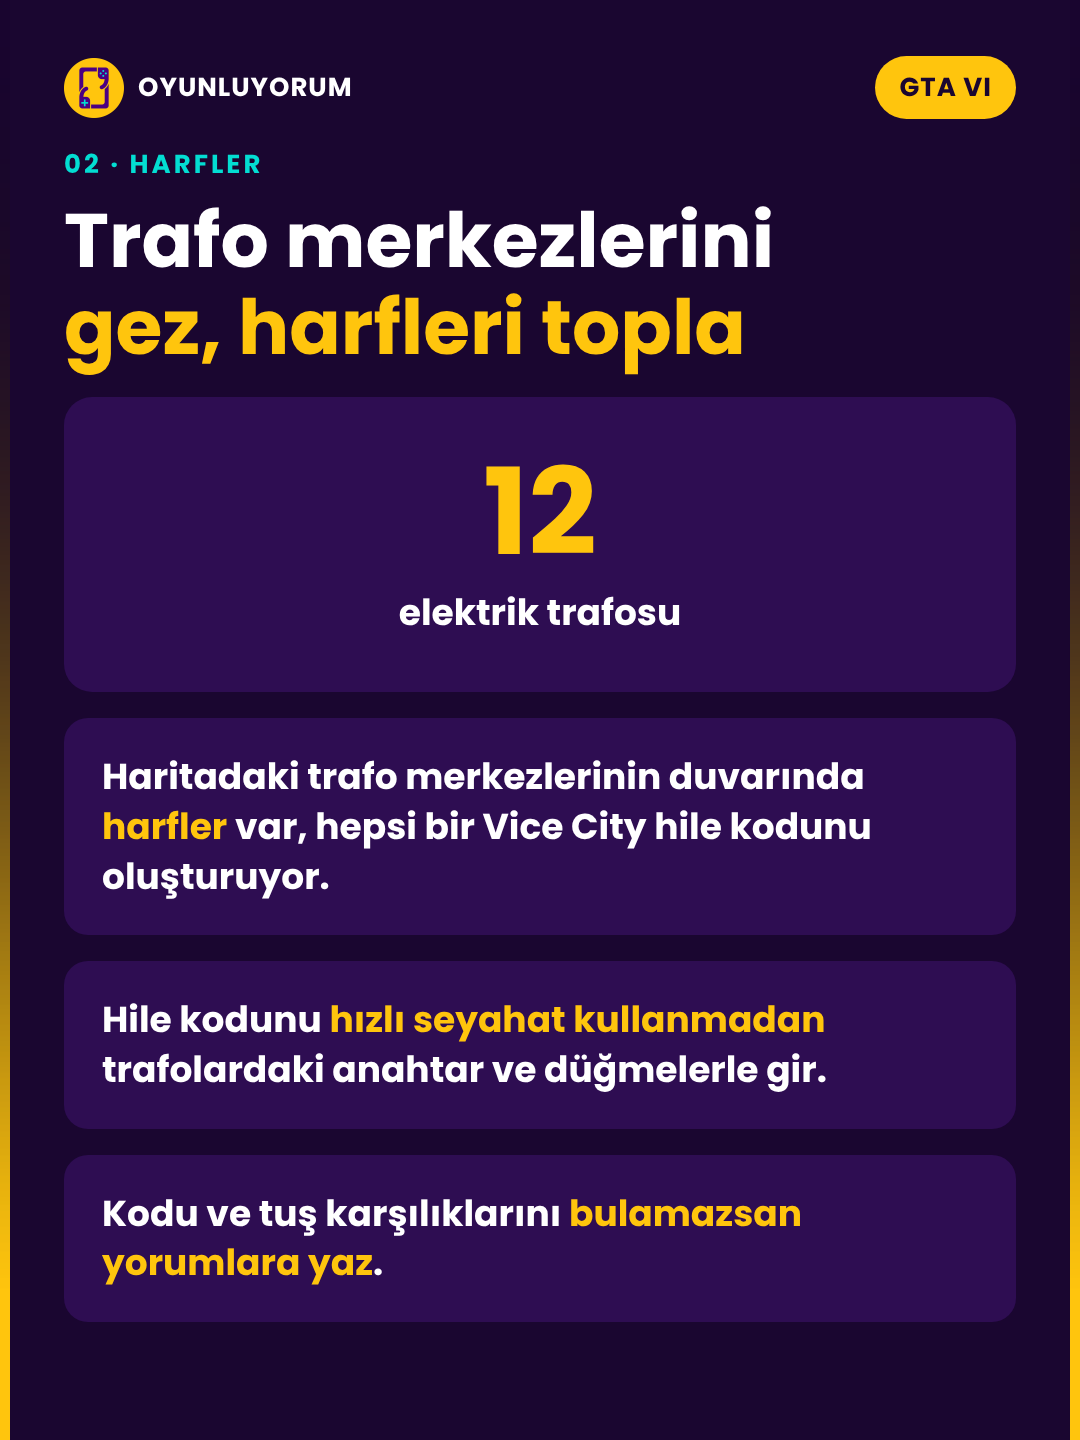
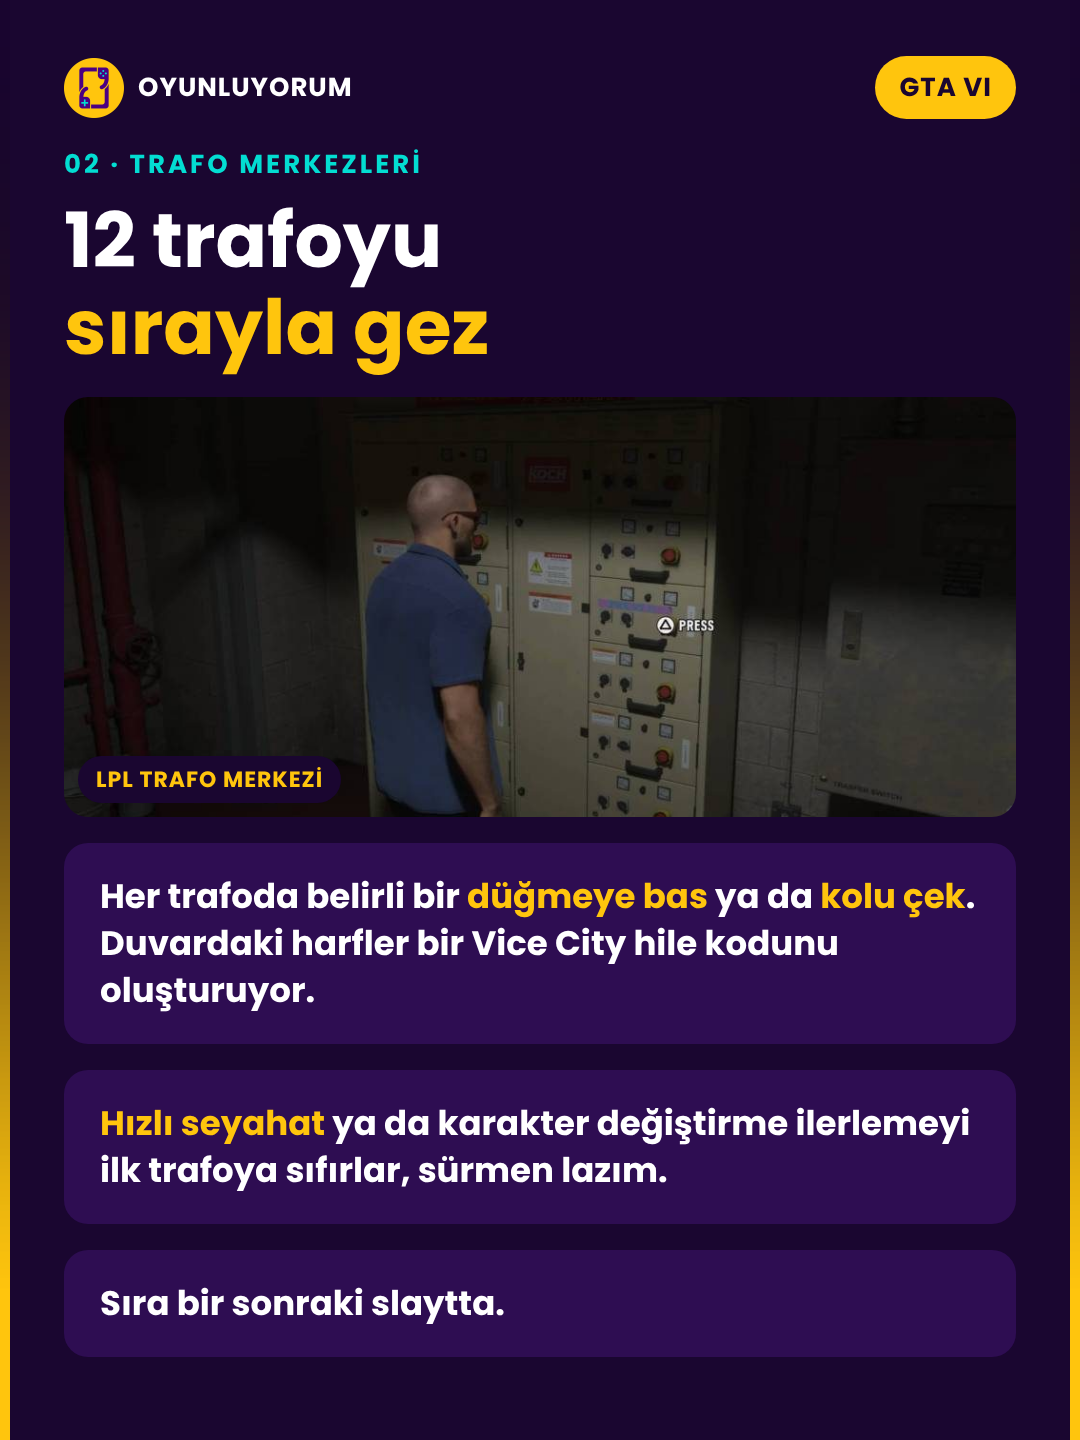
Vice City portal karuseli: 7 slayt, trafo sırası, portal görselleri
Claude-Session: https://claude.ai/code/session_01Cfy9VgEXWVL5ta7MT2PpLs

diff --git a/posts/2026-11-24-gta6-vice-city-portal/aciklama.md b/posts/2026-11-24-gta6-vice-city-portal/aciklama.md
@@ -1,11 +1,13 @@
 # GTA 6 gizli Vice City portalı (Tommy Vercetti gömleği + motosiklet)
 
 GTA 6'da 2002'ye zaman yolculuğu yapabiliyorsun ⏳🌴
-Key Lento'daki radyo kulesinden başlayıp trafo merkezlerindeki harfleri takip ediyorsun. Sonunda pembe bir portal seni PS2 görünümlü Vice City'ye götürüyor. Ödül: Tommy Vercetti'nin gömleği ve motosikleti. Kodları bulamazsan yorumlara yaz 👇
+Key Lento'daki radyo kulesinden başlayıp 12 elektrik trafosunu doğru sırayla gezmen gerekiyor. Sonunda pembe bir portal seni PS2 görünümlü Vice City'ye götürüyor. Ödül: Tommy Vercetti'nin gömleği, motosikleti, pantolonu ve ayakkabısı. Trafo sırası karuselde 👇
 Bu sırrı beraber çözeceğin arkadaşına gönder.
 
 #gta6 #gtavi #gta6türkiye #rockstargames #vicecity #oyun #oyunluyorum
 
-Yorum için not (CANOLAR yalnızca yorumda): hile kodunun harfleri ve tuş karşılıkları GameSpot rehberinde var, istenirse yoruma yazılacak.
-Kaynaklar: GameSpot, Kotaku, VGC (IndiaTimes erişilemedi)
+Notlar:
+- Trafo sırası (slayt 4) Dot Esports listesine göre. ComicBook'ta 5. ve 8. trafonun konum adları farklı yazılmış (tuş sırası aynı: D, D, ., A, ., A, A, A, ., W, D, W).
+- Video eklenecek (kullanıcı verecek).
+Kaynaklar: GameSpot, Kotaku, VGC, ComicBook, Dot Esports
 Durum: paylaşılmadı
